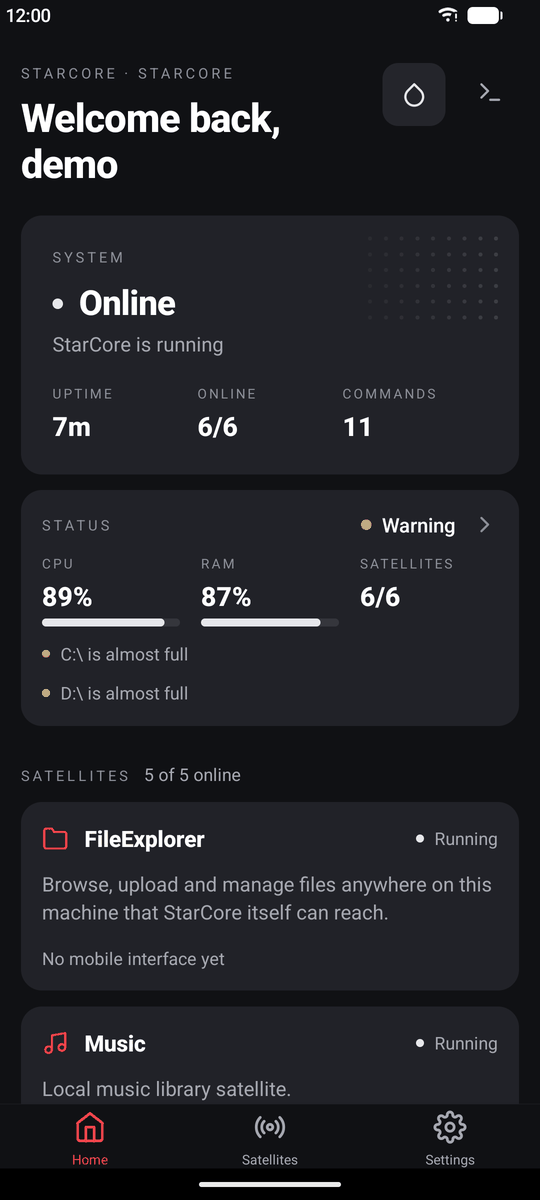
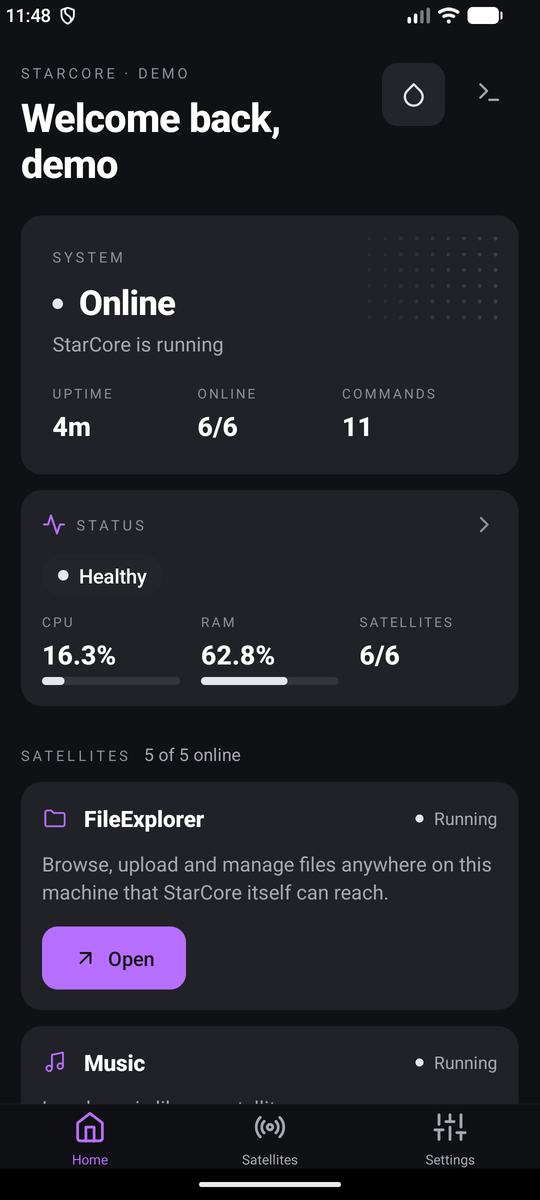
docs: the README rewritten around new 0.1.0 screenshots in the purple accent (Home, Music, Photos and Status on the web; Home, Music and Photos on Android, all from a throwaway demo server with generated content), badges, a Satellite in one snippet, documentation by need and how StarCore is built; t

diff --git a/README.md b/README.md
@@ -8,69 +8,72 @@
 </p>
 
 <p align="center">
-  <a href="https://github.com/mello-ww/starcore/releases/tag/v0.1.0"><b>v0.1.0</b> · stable</a>
-  &nbsp;·&nbsp; <a href="#get-started">Get started</a>
+  <a href="https://github.com/mello-ww/starcore/releases/tag/v0.1.0"><img src="https://img.shields.io/badge/release-v0.1.0-b76fff?style=flat-square&labelColor=212228" alt="Release v0.1.0"></a>
+  <a href="https://github.com/mello-ww/starcore/actions/workflows/ci.yml"><img src="https://img.shields.io/github/actions/workflow/status/mello-ww/starcore/ci.yml?branch=main&style=flat-square&label=checks&labelColor=212228&color=b76fff" alt="Checks"></a>
+  <img src="https://img.shields.io/badge/python-3.13-b76fff?style=flat-square&labelColor=212228" alt="Python 3.13">
+  <img src="https://img.shields.io/badge/android-7.0%2B-b76fff?style=flat-square&labelColor=212228" alt="Android 7.0 or later">
+  <a href="LICENSE"><img src="https://img.shields.io/badge/license-GPL--3.0-b76fff?style=flat-square&labelColor=212228" alt="License: GPL-3.0"></a>
+</p>
+
+<p align="center">
+  <a href="#get-started">Get started</a>
   &nbsp;·&nbsp; <a href="#satellites">Satellites</a>
-  &nbsp;·&nbsp; <a href="#documentation">Documentation</a>
+  &nbsp;·&nbsp; <a href="#build-your-own-satellite">Build a Satellite</a>
+  &nbsp;·&nbsp; <a href="docs/README.md">Documentation</a>
+  &nbsp;·&nbsp; <a href="docs/project/roadmap.md">Roadmap</a>
 </p>
 
 ---
 
-StarCore provides a single Engine capable of powering both native features and integrations
-with existing self-hosted applications. Instead of managing isolated applications with
-different interfaces, APIs and authentication systems, StarCore provides a common foundation
-where services coexist and work together:
+Self-hosting usually means a pile of separate applications, each with its own interface, its
+own API and its own accounts. StarCore puts them on a common foundation:
 
 - **one Engine** that loads, configures and supervises every feature
-- **one API** that Mission Control, the Android app and the CLI all speak
-- **one sign-in** protecting every endpoint once the administrator account exists
+- **one API** that the web interface, the Android app and the CLI all speak
+- **one sign-in** protecting every endpoint
 - **one interface**, on the web and on Android, in the same visual language
 
-Install only what you need: every feature is a Satellite you can enable or disable.
+Every feature is a **Satellite** you can enable or disable. A Satellite describes its
+interface once; both clients draw it natively, with no client code of its own.
 
 <p align="center">
-  <img src="docs/assets/readme/screenshots/mission-control-home.png" alt="Mission Control Home: system status, the Status summary with CPU and memory, and the loaded Satellites" width="100%">
+  <img src="docs/assets/readme/screenshots/mission-control-home.png" alt="Mission Control Home: system status, the Status summary with CPU and memory, the loaded Satellites and the shared audio player" width="100%">
 </p>
 
-## Interfaces
+## A look around
 
-**Mission Control** is the web interface the Engine serves itself. **StarCore for Android**
-talks to the same API and shares its design tokens (`mission_control/tokens.css`,
-mirrored in `mobile/src/theme/tokens.ts`).
+**Mission Control** is the web interface the Engine serves itself.
+
+<table>
+  <tr>
+    <td width="50%"><img src="docs/assets/readme/screenshots/mission-control-music.png" alt="Music in Mission Control: Daily Mixes, recently added albums and the player"></td>
+    <td width="50%"><img src="docs/assets/readme/screenshots/mission-control-photo.png" alt="Photos in Mission Control: the library by month"></td>
+  </tr>
+  <tr>
+    <td align="center"><sub>Music</sub></td>
+    <td align="center"><sub>Photos</sub></td>
+  </tr>
+</table>
 
 <p align="center">
-  <img src="docs/assets/readme/screenshots/mission-control-music.png" alt="The Music Satellite in Mission Control: Home with Daily Mixes and recently added albums" width="100%">
-  <br><sub>Music in Mission Control</sub>
+  <img src="docs/assets/readme/screenshots/mission-control-status.png" alt="Status in Mission Control: CPU, memory, storage, network and their history" width="100%">
+  <br><sub>Status</sub>
 </p>
+
+**StarCore for Android** talks to the same API and draws the same interfaces with native
+components.
 
 <p align="center">
-  <img src="docs/assets/readme/screenshots/android-home.png" alt="StarCore for Android: Home with system status, the Status summary and Satellites" width="36%">
-  &nbsp;&nbsp;
-  <img src="docs/assets/readme/screenshots/android-music.png" alt="StarCore for Android: Music Home with Daily Mixes and recently added albums" width="36%">
-  <br><sub>StarCore for Android · Home and Music</sub>
+  <img src="docs/assets/readme/screenshots/android-home.png" alt="StarCore for Android: Home with system status and the Satellites" width="30%">
+  &nbsp;
+  <img src="docs/assets/readme/screenshots/android-music.png" alt="StarCore for Android: Music with Daily Mixes and the floating player" width="30%">
+  &nbsp;
+  <img src="docs/assets/readme/screenshots/android-photo.png" alt="StarCore for Android: the photo library by month" width="30%">
+  <br><sub>Home · Music · Photos</sub>
 </p>
 
-<sub>Screenshots of the real interfaces (v0.1.0-alpha.1) running against a throwaway demo server.
-The music library is generated demo content; system readings are real.</sub>
-
-## Architecture
-
-<p align="center">
-  <img src="docs/assets/readme/architecture.svg" alt="Clients (Mission Control, StarCore for Android, CLI) talk to the StarCore Engine over its HTTPS JSON API; the Engine loads the Satellites" width="100%">
-</p>
-
-- **Engine** — the core runtime. It exposes the API, authenticates every request, owns the
-  configuration and manages each Satellite's lifecycle and commands.
-- **Native Satellites** — features that run inside StarCore: Status, Photo, Locked Folder,
-  Music and File Explorer.
-- **Link Satellites** — integrations with external services. Docker is the first, still a
-  placeholder.
-- **Mission Control** — the official web interface, served by the Engine.
-- **StarCore for Android** — the mobile app, in [`mobile/`](mobile/README.md).
-- **CLI** — interactive alongside a running StarCore, or one-shot from scripts.
-- **Signals** — the internal event system (planned, not implemented yet).
-
-More in [Architecture](docs/concepts/architecture.md) and [Terminology](docs/concepts/terminology.md).
+<sub>Screenshots of the real interfaces (v0.1.0) running against a throwaway demo server. The
+music and photos are generated demo content; system readings are real.</sub>
 
 ## Satellites
 
@@ -80,19 +83,33 @@ More in [Architecture](docs/concepts/architecture.md) and [Terminology](docs/con
 | <img src="docs/assets/readme/satellite-photo.svg" width="24" align="center" alt=""> [**Photo**](docs/satellites/photo.md) | Photo and video library with albums, map and phone backup | Web · Android |
 | <img src="docs/assets/readme/satellite-locked-folder.svg" width="24" align="center" alt=""> [**Locked&nbsp;Folder**](docs/satellites/locked_folder.md) | PIN-protected private area in Photos, optionally encrypted | Web · Android |
 | <img src="docs/assets/readme/satellite-music.svg" width="24" align="center" alt=""> [**Music**](docs/satellites/music.md) | Music library, streaming, playlists, Daily Mixes, lyrics, Connect | Web · Android |
-| <img src="docs/assets/readme/satellite-file-explorer.svg" width="24" align="center" alt=""> **File&nbsp;Explorer** | Browse, upload and manage files | Web · Android |
+| <img src="docs/assets/readme/satellite-file-explorer.svg" width="24" align="center" alt=""> [**File&nbsp;Explorer**](docs/satellites/file_explorer.md) | Browse, preview, upload and manage files | Web · Android |
 | <img src="docs/assets/readme/satellite-docker.svg" width="24" align="center" alt=""> **Docker** | *Link Satellite* - a placeholder that loads and reports its status | — |
 
-<sub>Locked Folder on Android lives in the Photos tab. See [Satellites](docs/satellites/README.md) for how Satellites work and
-how to build one.</sub>
+<sub>The Locked Folder lives inside Photos. See [How Satellites work](docs/satellites/README.md).</sub>
+
+## Architecture
+
+<p align="center">
+  <img src="docs/assets/readme/architecture.svg" alt="Clients (Mission Control, StarCore for Android, CLI) talk to the StarCore Engine over its HTTPS JSON API; the Engine loads the Satellites" width="100%">
+</p>
+
+- **Engine** — the core runtime. It exposes the API, authenticates every request, owns the
+  configuration and manages each Satellite's lifecycle and commands.
+- **Native Satellites** — features that run inside StarCore.
+- **Link Satellites** — integrations with external services. Docker is the first, still a
+  placeholder.
+- **Mission Control**, **StarCore for Android** and the **CLI** — three clients of the same
+  API. None of them contains code for a particular Satellite.
+
+More in [Architecture](docs/concepts/architecture.md), [Terminology](docs/concepts/terminology.md)
+and [Philosophy](docs/concepts/philosophy.md).
 
 ## Get started
 
 ### Run it locally
 
-Requires Python 3.13, on Windows or Linux. [uv](https://docs.astral.sh/uv/) installs the
-optional extras: Pillow for thumbnails and cryptography for Locked Folder encryption.
-FFmpeg, if it's on `PATH`, adds video thumbnails and Music transcoding.
+Requires Python 3.13 and [uv](https://docs.astral.sh/uv/), on Windows or Linux.
 
 ```
 cd engine
@@ -100,31 +117,15 @@ uv sync --extra thumbnails --extra encryption
 uv run python -m starcore
 ```
 
-This starts the Engine, loads the Satellites and serves Mission Control at
-http://127.0.0.1:8080. Open it on the same machine to create the administrator account.
-From any other device, the setup screen also asks for the one-time setup code StarCore prints
-at startup.
-
-Run in a terminal, the interactive CLI starts alongside it; run headless (a service manager,
-no terminal attached), StarCore runs Mission Control on its own instead. The interactive CLI
-can also be started directly with `python -m starcore.cli.main`.
-
-To run a single command and exit - from a script, or while StarCore runs elsewhere - pass it
-as arguments:
-
-```
-python -m starcore help
-python -m starcore engine health --json
-```
-
-See the [CLI documentation](docs/guide/cli.md) for every command, `--json`, exit codes and permissions.
+Open http://127.0.0.1:8080 on the same machine and create the administrator account. The two
+extras add photo thumbnails (Pillow) and Locked Folder encryption (cryptography); FFmpeg on
+`PATH` adds video thumbnails and Music transcoding. Run in a terminal, the interactive
+[CLI](docs/guide/cli.md) starts alongside.
 
 ### Run it on a Linux server
 
 [`deploy/linux/install.sh`](deploy/linux/install.sh) installs StarCore as a hardened systemd
-service under its own user, with data in `/var/lib/starcore`, and never starts anything or
-touches nginx on its own. [`deploy/nginx/starcore-panel.conf`](deploy/nginx/starcore-panel.conf)
-is the HTTPS reverse proxy in front of it.
+service under its own user. It never starts anything or touches nginx on its own.
 
 ```
 sudo bash deploy/linux/install.sh            # first install
@@ -132,55 +133,92 @@ sudo systemctl enable --now starcore
 sudo bash deploy/linux/install.sh --update   # later: fast-forward and re-sync
 ```
 
-See [Deployment](docs/guide/deployment.md) for the full walkthrough, HTTPS, LAN access and Windows
-unattended startup, and [Releasing](docs/project/releasing.md) for updates, backups and rollback.
+[Deployment](docs/guide/deployment.md) has the full walkthrough: HTTPS behind nginx, LAN
+access, configuration and Windows unattended startup. StarCore also runs in [Docker](docs/guide/docker.md).
 
 ### Install the Android app
 
 Download `StarCore-0.1.0.apk` from the
-[release page](https://github.com/mello-ww/starcore/releases/tag/v0.1.0) and enter
-your server's address on first launch. A public host name is tried over HTTPS, a LAN address
-such as `192.168.1.20:8090` over HTTP. Android 7.0 or later. To build it yourself, see
+[release page](https://github.com/mello-ww/starcore/releases/tag/v0.1.0) and enter your
+server's address on first launch. Android 7.0 or later. To build it yourself, see
 [`mobile/README.md`](mobile/README.md).
+
+## Build your own Satellite
+
+A Satellite is a folder: a manifest, routes that return JSON, and a `ui.json` that binds
+blocks to those routes. Mission Control and the Android app both draw it.
+
+```json
+{
+  "contract": "starcore.ui/1.0",
+  "entry": "home",
+  "pages": {
+    "home": {
+      "source": {"route": "summary", "refresh": 10},
+      "blocks": [
+        {"type": "field", "label": "Received", "value": "$.greetings", "format": "integer"},
+        {"type": "button", "label": "Say hello", "style": "primary",
+         "action": {"route": "greet", "then": "refresh"}}
+      ]
+    }
+  }
+}
+```
+
+[Your first Satellite](docs/guide/first-satellite.md) builds this one in three small files;
+the [UI contract](docs/reference/ui-contract.md) lists every block, action and format.
+
+## Documentation
+
+The [documentation index](docs/README.md) has everything. The usual starting points:
+
+| To… | Read |
+| --- | --- |
+| Install and configure StarCore | [Deployment](docs/guide/deployment.md) · [Docker](docs/guide/docker.md) |
+| Use it | [Mission Control](docs/guide/mission-control.md) · [CLI](docs/guide/cli.md) · [Android app](mobile/README.md) |
+| Understand it | [Architecture](docs/concepts/architecture.md) · [Terminology](docs/concepts/terminology.md) · [Philosophy](docs/concepts/philosophy.md) |
+| Build on it | [Your first Satellite](docs/guide/first-satellite.md) · [How Satellites work](docs/satellites/README.md) · [UI contract](docs/reference/ui-contract.md) · [API](docs/reference/api.md) |
+| Follow the project | [Roadmap](docs/project/roadmap.md) · [Changelog](CHANGELOG.md) · [Releasing](docs/project/releasing.md) |
 
 ## Security
 
-StarCore's single-administrator authentication protects every API endpoint (Mission Control,
-Satellite management, shutdown and restart, and every Satellite API) once the administrator
-account exists. Before that, a fresh install answers only the machine it runs on, and remote
-setup needs a one-time code. Sign-in attempts are throttled per client, also behind a reverse
-proxy. Mission Control can serve HTTPS itself with a certificate you provide, or sit behind
-nginx. See "Authentication" and "HTTPS" in [API](docs/reference/api.md) and [Deployment](docs/guide/deployment.md),
-and the latest security review in the [Roadmap](docs/project/roadmap.md).
+A single administrator account protects every API endpoint: Mission Control, Satellite
+management, shutdown and restart, and every Satellite's own routes. A fresh install answers
+only the machine it runs on, and remote setup needs a one-time code. Sign-in attempts are
+throttled per client, also behind a reverse proxy. Mission Control serves HTTPS itself with a
+certificate you provide, or sits behind nginx.
 
-## Release
+Details are in "Authentication" in the [API](docs/reference/api.md) and in
+[Deployment](docs/guide/deployment.md); the latest security review is in the
+[Roadmap](docs/project/roadmap.md). To report a vulnerability, see [SECURITY.md](SECURITY.md).
 
-The current release is **v0.1.0**, the first stable release: every Satellite on its shared
-interface (UI contract 1.2) on the web and on Android. The previous one was the Alpha,
-v0.1.0-alpha.1.
+## Project status
+
+**v0.1.0** is the first stable release: every Satellite is on its shared interface (UI
+contract 1.2) on the web and on Android.
 
 - [Release notes and known limitations](docs/releases/v0.1.0.md)
 - [Changelog](CHANGELOG.md)
-- [How releases are versioned, signed and published](docs/project/releasing.md)
+- [Roadmap](docs/project/roadmap.md): the current state and what comes next
 
 Mission Control (Configuration > About) and the Android app (Settings > About) show the exact
 version, build and commit, and can copy them for a bug report.
 
-## Documentation
+## How StarCore is built
 
-- [API](docs/reference/api.md)
-- [Architecture](docs/concepts/architecture.md)
-- [CLI](docs/guide/cli.md)
-- [Deployment](docs/guide/deployment.md)
-- [Mission Control](docs/guide/mission-control.md)
-- [Philosophy](docs/concepts/philosophy.md)
-- [Releasing](docs/project/releasing.md)
-- [Roadmap](docs/project/roadmap.md) (also the current state, known limitations and latest security review)
-- [Satellites](docs/satellites/README.md)
-- [Terminology](docs/concepts/terminology.md)
-- [UI contract](docs/reference/ui-contract.md) (how Satellites describe their interfaces for every client)
-- [Audio playback](docs/reference/media-audio.md) (the shared `media.audio` host and `audio.library` capability)
-- [StarCore for Android](mobile/README.md)
+StarCore started as something I wanted for my own homelab, not as a product. AI tools are
+capable, affordable and open to anyone right now, and there is no telling how long that will
+last, so writing every line by hand made little sense for a project like that. I built most
+of it with [Claude](https://claude.com/claude-code).
+
+Most of the Engine's backend and a few other parts were written by hand; the rest was written
+by Claude under my direction. Every change is supervised, reviewed and tested by me before it
+lands.
+
+## Contributing
+
+Issues and pull requests are welcome. [CONTRIBUTING.md](CONTRIBUTING.md) covers the setup,
+the checks to run and the few architectural rules a change must follow.
 
 ## License
 

diff --git a/mobile/README.md b/mobile/README.md
@@ -15,9 +15,10 @@ Mobile UI  ->  Existing StarCore API  ->  StarCore Engine  ->  Satellites
   app lock.
 - Home, Satellites, Settings, and in Developer Mode the Console and Config tabs.
 - Every Satellite that ships a `ui.json`, drawn by the shared renderer (see "Satellite
-  interfaces" below): Status, Photos, and File Explorer's read-only preview, the app's file
-  browser.
-- The shared audio player (`src/media/`), and Music's native library screens.
+  interfaces" below): Status, Photos, the Locked Folder, Music and File Explorer. The app has
+  no screen written for one Satellite.
+- The shared audio player (`src/media/`), which plays any Satellite that provides the
+  `audio.library` capability, with offline downloads.
 - The phone's background backup (`src/sync/` and the Kotlin `sync` package), client
   capability `device.media-sync`: any server's `media.sync` provider, reached from a
   document's `sync` action or Settings' "Phone backup" (`docs/archive/photos-parity-audit.md`).

diff --git a/docs/guide/first-satellite.md b/docs/guide/first-satellite.md
@@ -95,9 +95,10 @@ page.
 
 ## 4. Try it
 
-Start StarCore (`uv run python -m starcore` in `engine/`) and open Mission Control. Hello is
-listed with the other Satellites; open it and press **Say hello**. The Android app shows the
-same page, drawn natively, the next time it refreshes its Satellites.
+Start StarCore (`uv run python -m starcore` in `engine/`), or restart it if it was running: a
+new Satellite folder is loaded at startup. Open Mission Control: Hello is listed with the
+other Satellites; open it and press **Say hello**. The Android app shows the same page, drawn
+natively, the next time it refreshes its Satellites.
 
 After an edit, reload the Satellite without restarting StarCore, from the CLI or with its
 reload button in Mission Control's Developer Mode:
